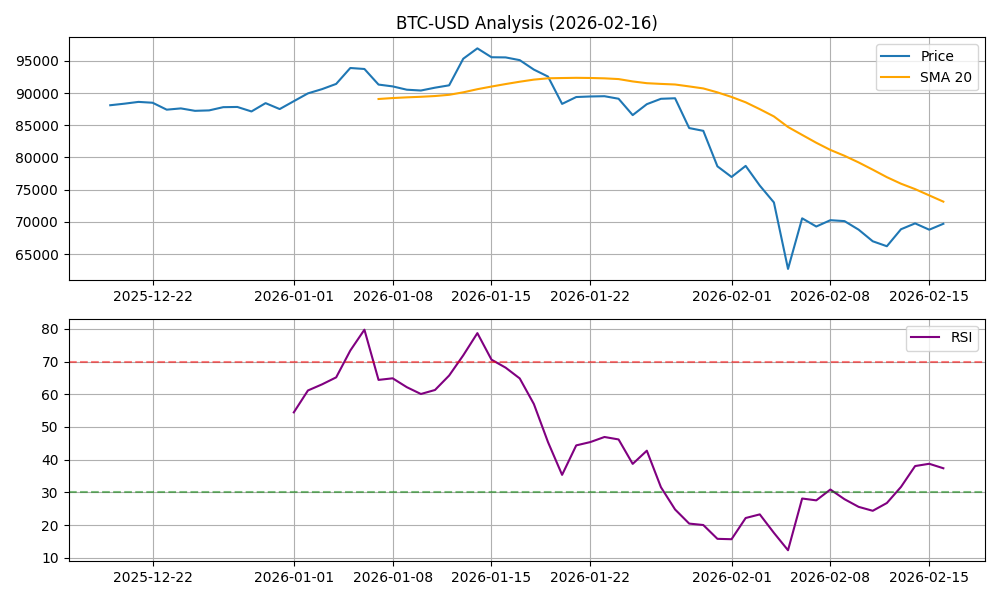
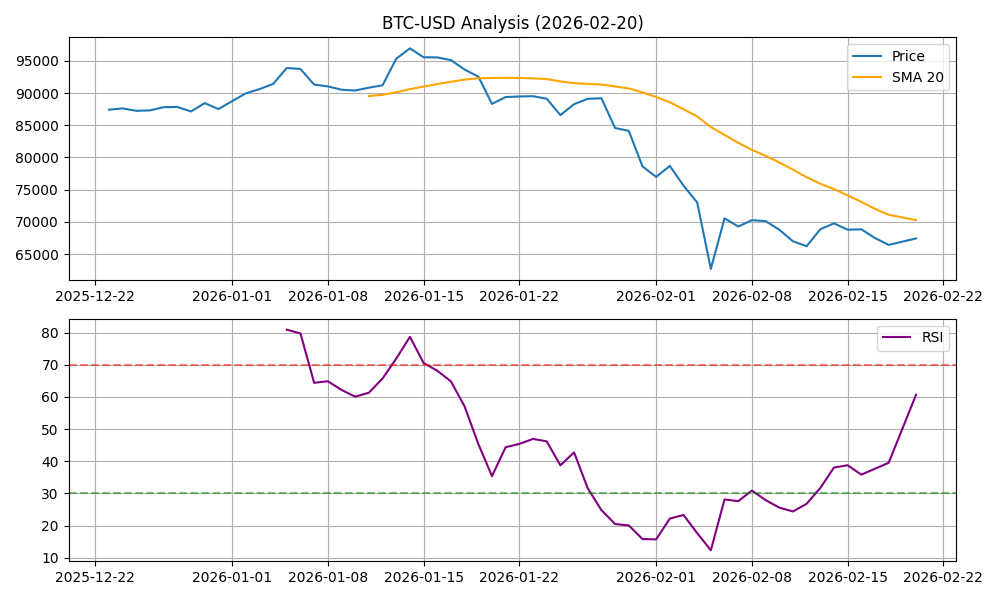
Update market analysis chart. Log tech sentiment stats. Refreshed Dashboard.

diff --git a/README.md b/README.md
@@ -1,6 +1,6 @@
 # 🤖 Advanced Engineering Automation Dashboard
 
-**Auto-generated Report** | Last Updated: 2026-02-16 18:27:16
+**Auto-generated Report** | Last Updated: 2026-02-20 11:04:13
 
 > **Project Overview**
 > This project performs real data fetching and analysis.
@@ -11,15 +11,15 @@
 > *This is a legitimate "Data Collection & Analysis" project, not a fake commit generator.*
 
 ## 📊 Market Pulse (CryptoAnalyst)
-> 2026-02-16 18:27:16.167348: BTC $69706.07 | RSI: 37.38
+> 2026-02-20 11:03:54.184196: BTC $67432.76 | RSI: 60.67
 
 ![BTC Analysis](data/btc_analysis.png)
 
 ## 📰 Tech Sentiment (NewsPulse)
-## 2026-02-04
-- **Tech Mood**: Positive 📈 (Score: 0.01)
-- **Top Story**: I miss thinking hard
-- **Sample**: _Lessons learned shipping 500 units of my first hardware product_
+## 2026-02-20
+- **Tech Mood**: Positive 📈 (Score: 0.09)
+- **Top Story**: MuMu Player (NetEase) silently runs 17 reconnaissance commands every 30 minutes
+- **Sample**: _Gemini 3.1 Pro_
 
 
 

diff --git a/data/daily_digest.md b/data/daily_digest.md
@@ -63,3 +63,8 @@
 - **Top Story**: I miss thinking hard
 - **Sample**: _Lessons learned shipping 500 units of my first hardware product_
 
+## 2026-02-20
+- **Tech Mood**: Positive 📈 (Score: 0.09)
+- **Top Story**: MuMu Player (NetEase) silently runs 17 reconnaissance commands every 30 minutes
+- **Sample**: _Gemini 3.1 Pro_
+
